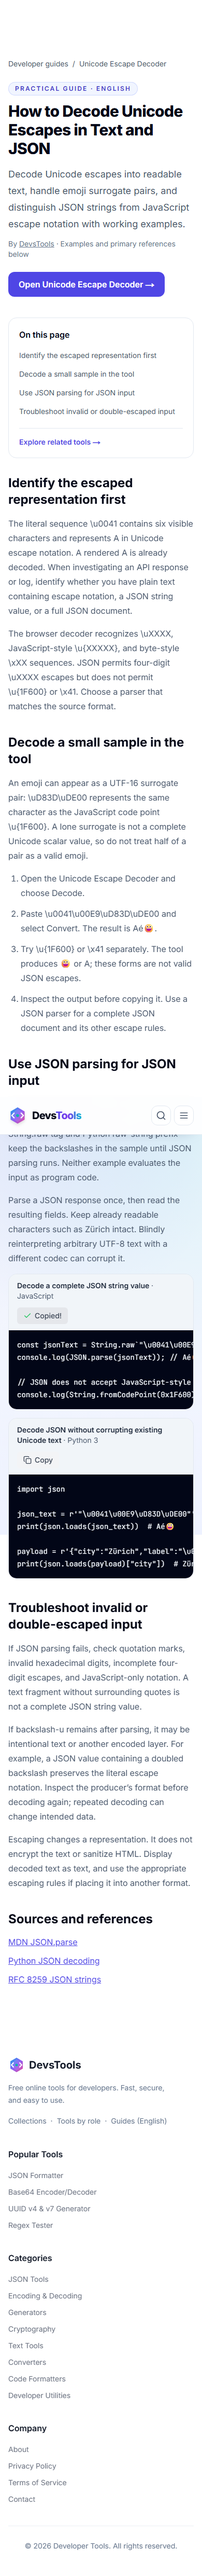
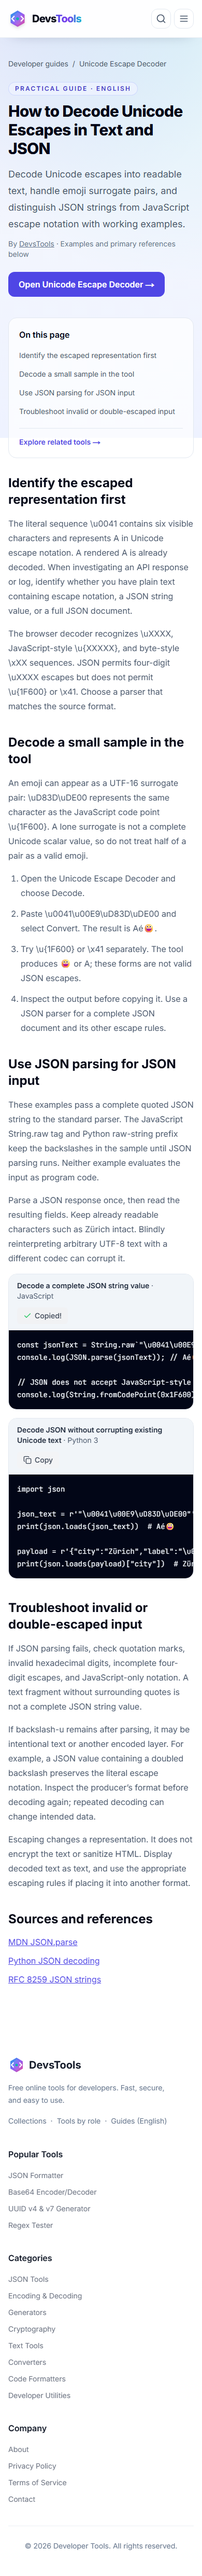
Align extension checks with the catalog and refresh guide screenshots

Changed region(s): [[0.0, 0.4058, 1.0, 0.4995], [0.0, 0.0, 1.0, 0.0624]]

diff --git a/frontend/e2e/guides.spec.ts b/frontend/e2e/guides.spec.ts
@@ -30,6 +30,7 @@ test('guides are discoverable, server-rendered, and connected to their tools', a
     );
     await expect(page.locator('link[rel="alternate"][hreflang="tr"]')).toHaveCount(0);
     await expect(page.locator('[data-code-example="true"]').first()).toBeVisible();
+    await page.evaluate(() => window.scrollTo(0, 0));
     await page.screenshot({ path: test.info().outputPath(`${guide.slug}.png`), fullPage: true });
 
     await page.getByRole('link', { name: `Open ${guide.toolName}`, exact: false }).click();
@@ -69,6 +70,7 @@ test('guide code can be copied and pages fit mobile screens without serious acce
         .filter((violation) => violation.impact === 'critical' || violation.impact === 'serious')
         .map(({ id, nodes }) => ({ id, targets: nodes.map((node) => node.target) })),
     ).toEqual([]);
+    await page.evaluate(() => window.scrollTo(0, 0));
     await page.screenshot({
       path: test.info().outputPath(`${guide.slug}-mobile.png`),
       fullPage: true,

diff --git a/frontend/e2e/extension.spec.ts b/frontend/e2e/extension.spec.ts
@@ -1,5 +1,6 @@
 import path from 'node:path';
 import { chromium, expect, test } from '@playwright/test';
+import { toolCatalog } from '../src/lib/api';
 
 test('Chromium loads the extension and its offline tools work', async () => {
   const extensionPath = path.resolve('../extension/dist/chromium');
@@ -15,7 +16,7 @@ test('Chromium loads the extension and its offline tools work', async () => {
     const errors: string[] = [];
     page.on('pageerror', (error) => errors.push(error.message));
     await page.goto(`chrome-extension://${extensionId}/popup.html`);
-    await expect(page.locator('#tool-count')).toHaveText('500 Tools');
+    await expect(page.locator('#tool-count')).toHaveText(`${toolCatalog.length} Tools`);
     await page.locator('#tool-search-input').fill('sha256');
     await expect(page.locator('.tool-item[href$="/crypto/sha256-hash"]')).toBeVisible();
     await page.getByRole('tab', { name: /Offline Tools/ }).click();
